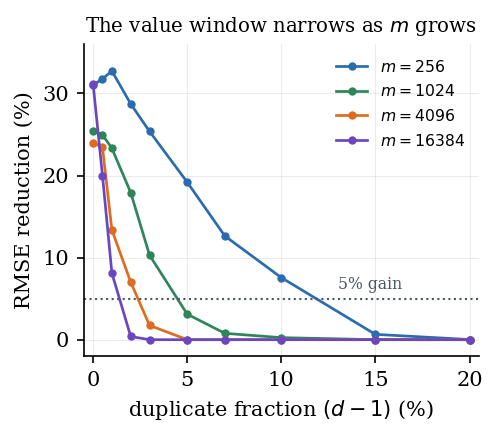
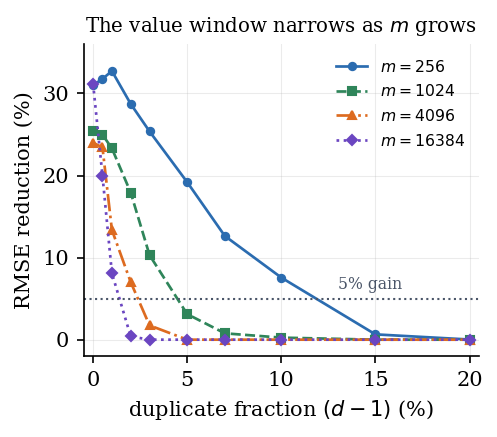
Updated figures

diff --git a/paper/make_figures.py b/paper/make_figures.py
@@ -133,13 +133,15 @@ def fig_window():
     arm = "xxh64-ints"
     ms = sorted({c["m"] for c in cells if c["arm"] == arm})
     cols = {256: C["blue"], 1024: C["green"], 4096: C["orange"], 16384: C["purple"]}
+    styles = {256: ("-", "o"), 1024: ("--", "s"), 4096: ("-.", "^"), 16384: (":", "D")}
     fig, ax = plt.subplots(figsize=(3.4, 2.7))
     for m in ms:
         pts = [(100 * (c["d"] - 1), c["dclip"]) for c in cells
                if c["arm"] == arm and c["m"] == m]
         pts.sort()
         xs, ys = zip(*pts)
-        ax.plot(xs, ys, marker="o", ms=3, lw=1.3, color=cols[m], label=f"$m={m}$")
+        ls, mk = styles[m]
+        ax.plot(xs, ys, marker=mk, ms=3.5, lw=1.3, ls=ls, color=cols[m], label=f"$m={m}$")
     ax.axhline(5, color=C["gray"], ls=":", lw=1.0)
     ax.text(13, 6.2, "5% gain", fontsize=7.5, color=C["gray"])
     ax.set_xlabel("duplicate fraction $(d-1)$ (%)")
@@ -193,7 +195,7 @@ def fig_universality():
     ax.text(len(bars) - 0.5, 34.0, r"theory $\approx 29.3\%$", fontsize=7.5,
             ha="right", color="k")
     ax.set_xticks(xs)
-    ax.set_xticklabels([b[0] for b in bars], fontsize=8)
+    ax.set_xticklabels([b[0] for b in bars], fontsize=7)
     ax.set_ylabel("RMSE reduction at $d{=}1$ (%)")
     ax.set_title("Gain is universal across sketch families", fontsize=9.5)
     ax.set_ylim(0, 38)
